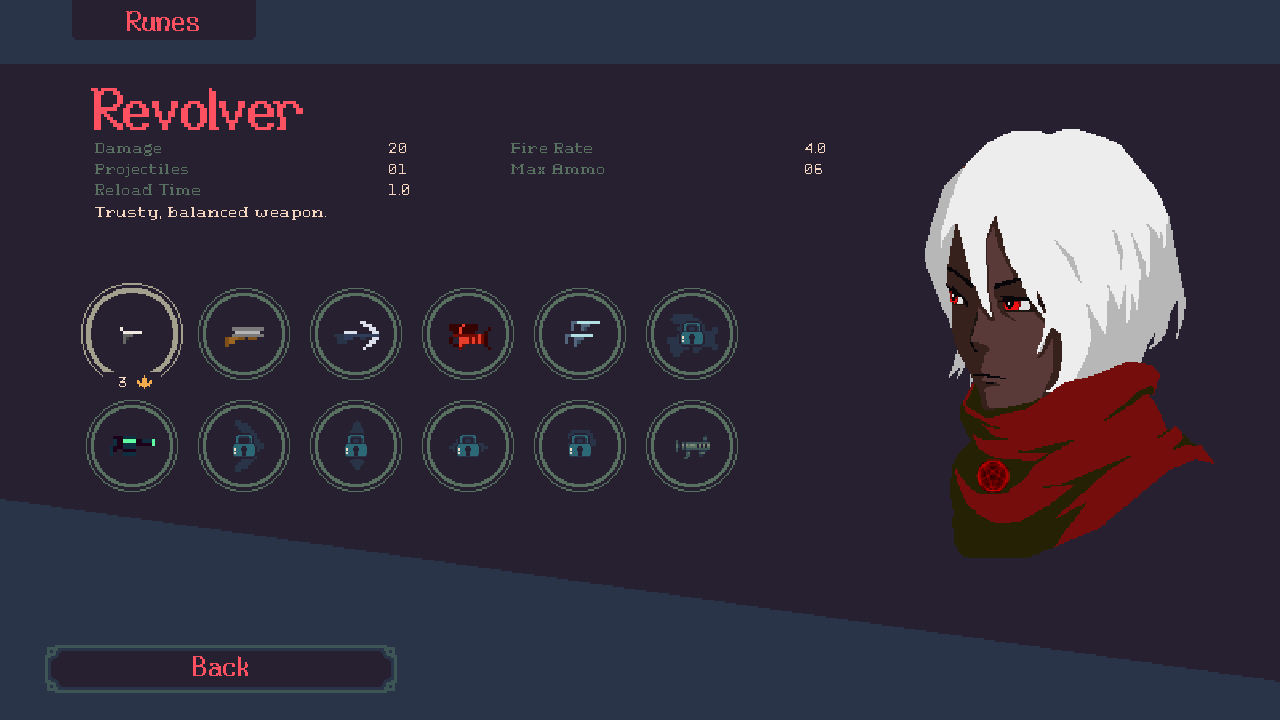
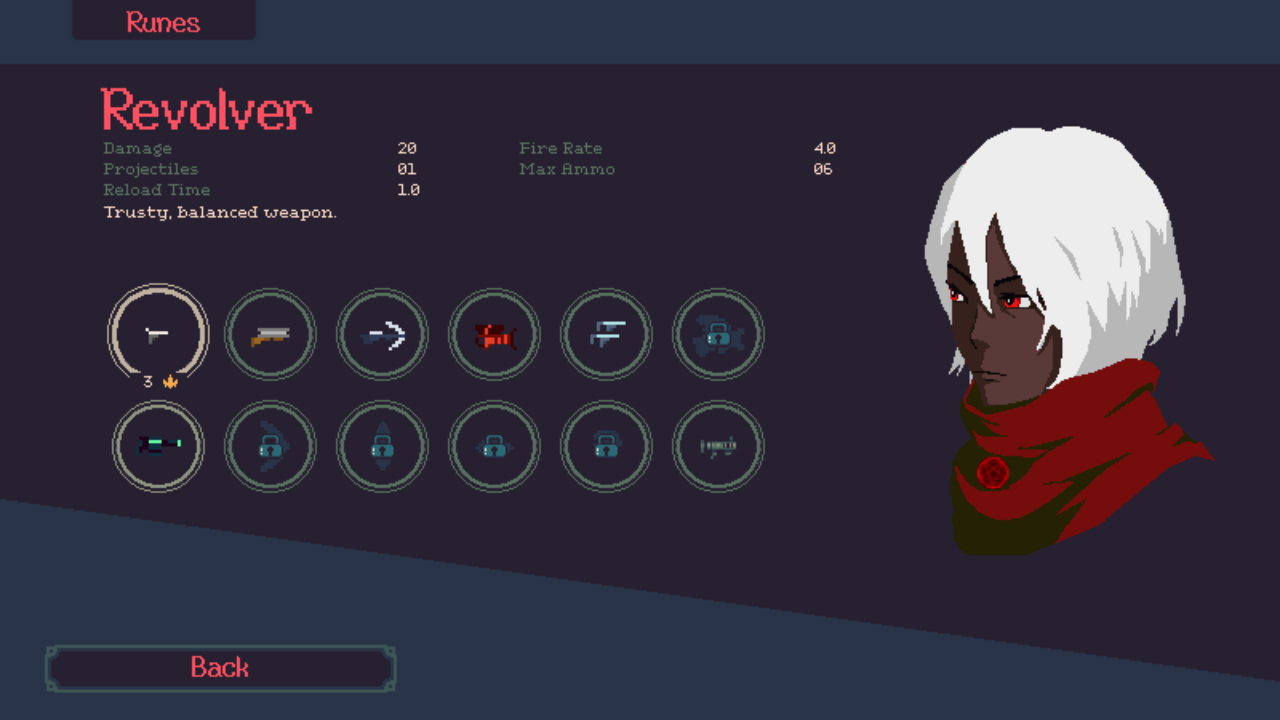
Verify selection header with isolated native rendering

diff --git a/validation/RuntimeChecks.cs b/validation/RuntimeChecks.cs
@@ -90,6 +90,7 @@ public partial class RuntimeChecks:MonoBehaviour
         fixtureMouse=InputSystem.AddDevice<Mouse>("ChargeSpikeMouse");
         fixtureKeyboard=InputSystem.AddDevice<Keyboard>("ChargeSpikeKeyboard");
         AudioListener.volume=0f;
+        if(Environment.GetEnvironmentVariable("MODERNIZATION_NATIVE_RENDER")=="1")Application.runInBackground=true;
         InputSystem.settings.backgroundBehavior=InputSettings.BackgroundBehavior.IgnoreFocus;
         Log("input-fixture","Synthetic devices ignore desktop focus; no OS input injection");
         var routine=Run();
@@ -569,6 +570,13 @@ public partial class RuntimeChecks:MonoBehaviour
     [Serializable]class UiNode{public string id,text,role;public bool active,interactable;public float[] bounds;}
     IEnumerator Capture(string file)
     {
+        if(Environment.GetEnvironmentVariable("MODERNIZATION_NATIVE_RENDER")=="1")
+        {
+            yield return new WaitForEndOfFrame();
+            var frame=ScreenCapture.CaptureScreenshotAsTexture();
+            File.WriteAllBytes(Path.Combine(ResultDir,file),frame.EncodeToPNG());Object.Destroy(frame);
+            Log("native-frame-capture",file);yield break;
+        }
         // Batch players have no usable backbuffer. Render the native cameras and
         // overlay canvases explicitly into a GPU texture, without a desktop window.
         yield return null;
@@ -592,12 +600,9 @@ public partial class RuntimeChecks:MonoBehaviour
             for(int i=0;i<cameras.Length;i++){cameras[i].targetTexture=rt;cameras[i].rect=new Rect(0,0,1,1);cameras[i].orthographicSize=previousOrtho[i];Log("offscreen-camera",cameras[i].name+" layers="+cameras[i].cullingMask);}
             camera.targetTexture=rt;
             for(int i=0;i<overlays.Length;i++){overlays[i].renderMode=RenderMode.ScreenSpaceCamera;overlays[i].worldCamera=camera;overlays[i].planeDistance=camera.nearClipPlane+.1f;}
-            // Static header/footer graphics otherwise retain their previous
-            // canvas mesh when batch capture changes the camera target/projection.
-            foreach(var graphic in Object.FindObjectsOfType<Graphic>())graphic.SetAllDirty();
             Canvas.ForceUpdateCanvases();
             foreach(var c in cameras)c.Render();
-            if(overlays.Length>0)camera.Render();
+            camera.Render();
             RenderTexture.active=rt;var t=new Texture2D(width,height,TextureFormat.RGB24,false);t.ReadPixels(new Rect(0,0,width,height),0,0);t.Apply();
             File.WriteAllBytes(Path.Combine(ResultDir,file),t.EncodeToPNG());Object.Destroy(t);
             Log("offscreen-capture",file);

diff --git a/validation/RosterHeaderChecks.cs b/validation/RosterHeaderChecks.cs
@@ -68,12 +68,10 @@ public partial class RuntimeChecks
    while(!(title.CurrentState is RuneMenuGunState)||!title.runeConfirmButton.IsInteractable()||title.runeMenuPanel.GetComponent<CanvasGroup>().alpha<.999f)yield return null;
    yield return MenuPointer(title.runeConfirmButton);yield return HeaderReady(title,title.gunMenu);yield return SelectorPad(pad,GamepadButton.DpadUp);HeaderContract(title);
    {
-    // Each aspect ratio starts a fresh native player at its actual resolution.
-    // Do not mix runtime resizing with batchmode's absent automatic camera render.
-    foreach(var viewport in new[]{new Vector2Int(Screen.width,Screen.height)})
+    foreach(var viewport in new[]{new Vector2Int(900,900),new Vector2Int(1024,768),new Vector2Int(1280,720)})
     {
      yield return MenuMove(pad,title.gunMenu.GetComponentInParent<Canvas>().rootCanvas.transform,Entries(title.gunMenu)[0].button);
-     yield return HeaderReady(title,title.gunMenu);
+     Screen.SetResolution(viewport.x,viewport.y,false);yield return WaitDisplay(viewport.x,viewport.y);yield return HeaderReady(title,title.gunMenu);
      HeaderContract(title);
      yield return Capture("weapon-header-"+viewport.x+".png");
      yield return PadClick(pad,title.characterMenu.GetComponentInParent<Canvas>().rootCanvas.transform,title.loadoutBackButton);yield return HeaderReady(title,title.characterMenu);HeaderContract(title);yield return Capture("character-header-"+viewport.x+".png");

diff --git a/docs/PROGRESS.md b/docs/PROGRESS.md
@@ -4,10 +4,10 @@
 
 | Stage | Status | Acceptance satisfied | Remaining / blockers / deferrals |
 |---|---|---|---|
-| R1 Shared selection header | COMPLETE | Native17 verifies badge removal, left-aligned tab/background/prompt and controller/pointer/Back/title re-entry. Inspected square/4:3 renders from native14 use the same production DLL; corrected widescreen captures pass native17. Credits/progression are unchanged. | None. |
+| R1 Shared selection header | COMPLETE | Native18 verifies both selectors at square/4:3/16:9 using normal Unity rendering on an isolated non-input desktop. All six inspected images, controller/pointer/rune/Back/title re-entry and preserved credits/progression pass. Desktop closure is verified. | None. |
 | R2 Final delivery | ACTIVE | Target1.3.2; updater0.2.0/epoch1 retained. | Exact package/UI/controller/rune checks, copied install/rollback, public download and reviewed cleanup remain. Internal acceptance work; no external blocker or deferral. |
 
-[Authoritative requirements](RUNES.md#selection-header-correction--2026-10-29). Native1 identifies the purchase-era `PointsDisplay`; native2 reproduces its unwanted visibility. Native3 identifies the actual `UIExtensions.Panel` owner and probe7 the tab's cached transition position. Earlier fixtures were corrected for animation readiness, composed navigation and first controller recovery input. Diagnostics11–16 showed that static header/footer meshes could be omitted by the explicit batch capture, despite correct native alpha, bounds and navigation. Native17 rebuilds graphics before rendering and visibly verifies both widescreen selectors. The previously inspected square/4:3 images from native14 use the identical production DLL. Final packaged checks launch each viewport in a fresh process. The redundant second mixed-input cycle from diagnostic9 is not claimed. No gameplay workaround was added.
+[Authoritative requirements](RUNES.md#selection-header-correction--2026-10-29). Native1 identifies the purchase-era `PointsDisplay`; native2 reproduces its unwanted visibility. Native3 identifies the actual `UIExtensions.Panel` owner and probe7 the cached transition position. Earlier fixtures were corrected for animation readiness, composed navigation and first controller recovery input. Explicit batch captures intermittently omit static header/footer graphics; native17's apparent mesh-rebuild correction was not reliable in the packaged player. Native18 uses normal Unity rendering and actual end-of-frame backbuffer captures on an isolated non-input Windows desktop, with no desktop switching or OS input injection. All six renders and complete navigation pass; the desktop handle closes after process exit. Final package checks use this same rendering path. No production workaround or repair of the batch capture is claimed; the redundant second mixed-input cycle from diagnostic9 is not claimed.
 
 R1-acceptance.json is retained under `D:/Projects/20MTD-Modernization-evidence/roster-header-20261029`. The existing native panel/group owns the correction; no new canvas, input system or update loop is needed. Only selection presentation changes; live Steam/profile/phone installations remain untouched. Disposable .NET/native output uses the registered `D:/Temp/20mtd-roster-header-20261029` I/O exception.
 

diff --git a/docs/RUNES.md b/docs/RUNES.md
@@ -11,8 +11,8 @@ Authoritative follow-up for the obsolete currency counter still visible in chara
 
 | Stage | Status | Acceptance |
 |---|---|---|
-| R1 Shared selection header | COMPLETE | Native17 verifies badge removal, left-aligned native tab and controller/pointer/rune/title re-entry. Inspected square/4:3 images from native14 use the identical production DLL; corrected widescreen character/weapon renders pass native17. The capture helper rebuilds static graphic meshes before explicit batch rendering. Credits and ownership remain unchanged. No blocker or deferral. |
-| R2 Final delivery | ACTIVE | Target1.3.2; updater0.2.0/epoch1 retained. Exact packaged native checks at three fresh-process viewports, controller/runes, install/rollback, publication/download and reviewed cleanup remain. No external blocker or deferral. |
+| R1 Shared selection header | COMPLETE | Native18 uses normal Unity rendering on an isolated non-input desktop: all six character/weapon renders at square/4:3/16:9 visibly pass. Full badge removal, left-aligned native tab, controller/pointer/rune/title re-entry and preserved credits/ownership pass. The desktop closes after process exit. No blocker or deferral. |
+| R2 Final delivery | ACTIVE | Target1.3.2; updater0.2.0/epoch1 retained. Exact packaged normal-render UI/controller/rune checks, install/rollback, publication/download and reviewed cleanup remain. Earlier batch captures are diagnostic only. No external blocker or deferral. |
 
 Storage: `D:/Temp/20mtd-roster-header-20261029` is the registered .NET/native small-file I/O exception. Current required evidence/deliverables belong in `D:/Projects/20MTD-Modernization-evidence/roster-header-20261029`. Existing shared native inputs stay in place. No tracked deferrals.
 
